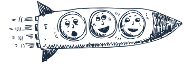
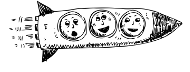
polishing

diff --git a/public/css/style.css b/public/css/style.css
@@ -25,7 +25,7 @@ html {
    margin: 0;
    padding: 0;
    background-image: url(../img/rocket-2.png);
-   background-position: 310px 23px;
+   background-position: 320px 23px;
    background-repeat: no-repeat;
 }
 #header #logo a {
@@ -47,7 +47,7 @@ html {
 }
 #header #logo .section {
    font-size: 48px;
-   color: #027378;
+   color: #111;
    font-family: Oyster;
    text-transform: uppercase;
    font-weight: normal;
